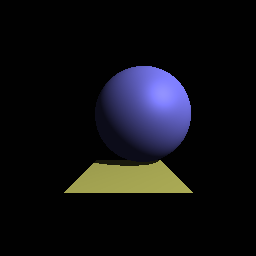
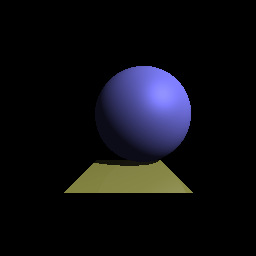
Finish Basic Raytracing with phong model, shadow, reflection May add refraction in future

Changed region(s): [[0.25, 0.625, 0.75, 0.7812]]

diff --git a/src/Ray.cpp b/src/Ray.cpp
@@ -27,7 +27,7 @@ Ray::Ray(Point3f rayOrigin_, Point3f rayVector_, bool isHit_, bool init_, bool i
 }
 
 Mat Ray::phongShading(){
-    Mat RGBVector = Mat::ones(1,3, CV_8UC1);
+    Mat RGBVector = Mat::zeros(1,3, CV_8UC1);
     myHitPoint.normalVector = Mat(3,1,CV_32F);
     for(int k = 0; k<sphereBuffer.size(); k++){
         float a = pow(rayVector.x,2) + pow(rayVector.y,2) + pow(rayVector.z,2);
@@ -39,7 +39,7 @@ Mat Ray::phongShading(){
         float t1 = (-b+sqrt(theta))/(2*a);
         float t2 = (-b-sqrt(theta))/(2*a);
 
-        if( theta >= 0 &&( t1 >0 || t2 >0)){
+        if( theta >= 0 &&( t1 >0.001 || t2 >0.001)){
             isHit = true;
             if( t1<=t2 ){
                 myHitPoint.tScale = t1;
@@ -90,7 +90,7 @@ Mat Ray::phongShading(){
         if (determinant(m) != 0){
             Mat ans = m.inv()*left;
             float t = ans.at<float>(2,0);
-            if((ans.at<float>(0,0)>=0) && (ans.at<float>(1,0)>=0) && (ans.at<float>(0,0)+ans.at<float>(1,0)<=1) && t>0){
+            if((ans.at<float>(0,0)>=0) && (ans.at<float>(1,0)>=0) && (ans.at<float>(0,0)+ans.at<float>(1,0)<=1) && t>0.001){
                 isHit = true;
                 myHitPoint.tScale = t;
                 if( myHitPoint.init == false){
@@ -137,29 +137,33 @@ Mat Ray::phongShading(){
         Vec3f thisRayRGB;
         Vec3f vecNormal((float*)myHitPoint.normalVector.data);
         checkShadow();   
-        float absNdotL, absNdotH;     
+        float absNdotL, absNdotH;
+        normalize(eyeVector,eyeVector);
+        normalize(lightVector,lightVector);
+        normalize(vecNormal,vecNormal); 
         if(isShadow==true){
             Id = 0;
             Is = 0;
-        }else{
-            normalize(eyeVector,eyeVector);
-            normalize(lightVector,lightVector);
-            normalize(vecNormal,vecNormal);
+        } else{
             absNdotL = abs(myDot(vecNormal, lightVector));
             Id = absNdotL*Ia;
             H = lightVector+eyeVector;
             absNdotH = abs(myDot(vecNormal, H));
             Is = pow(absNdotH,myHitPoint.myMaterial.exp)*Ia;
-        }/*
-        float eyeProjectToNormalScale = myDot(vecNormal, eyeVector);
-        Vec3f eyeProjectToNormal = eyeProjectToNormalScale*vecNormal;
-        Vec3f reflectEyeVector = eyeVector+ 2*(eyeProjectToNormal-eyeVector);
-        Ray recursiveRay(myHitPoint.thePoint, reflectEyeVector, false, false, false);
-        Mat recursiveRGB =  recursiveRay.phongShading();
-        cout<<recursiveRGB<<endl;*/
+        }
 
-        thisRayRGB = myHitPoint.myMaterial.ka*Ia + myHitPoint.myMaterial.kd*Id + myHitPoint.myMaterial.ks*Is;
+        Vec3f rayVectorforRec(rayVector.x, rayVector.y, rayVector.z);
+        normalize(rayVectorforRec, rayVectorforRec); 
+        float rayProjectToNormalScale = myDot(vecNormal, rayVectorforRec);
+        Vec3f rayProjectToNormal = -1*(rayProjectToNormalScale*vecNormal);
+        Vec3f reflectEyeVector = -1*rayVectorforRec+ 2*(rayProjectToNormal+rayVectorforRec);
+        Point3f tempRay(reflectEyeVector[0], reflectEyeVector[1], reflectEyeVector[2]);
+        Ray recursiveRay(myHitPoint.thePoint, tempRay, false, false, false);
+        Mat recursiveRGBMat =  recursiveRay.phongShading();
 
+        Vec3f recursiveRGB(recursiveRGBMat.at<uchar>(0,0)/255.0, recursiveRGBMat.at<uchar>(0,1)/255.0, recursiveRGBMat.at<uchar>(0,2)/255.0);
+        thisRayRGB = (1- myHitPoint.myMaterial.reflect)*(myHitPoint.myMaterial.ka*Ia + myHitPoint.myMaterial.kd*Id + myHitPoint.myMaterial.ks*Is)
+                        + myHitPoint.myMaterial.reflect*recursiveRGB;
         if(thisRayRGB[0]>1.0){
             thisRayRGB[0] = 1.0f;
         }
@@ -238,19 +242,3 @@ float myDot(Vec3f a, Vec3f b){
     float ouptut = c[0]+c[1]+c[2];
     return ouptut;
 }
-
-
-
-
-
-
-
-
-
-
-
-
-
-
-
-

diff --git a/src/Scene.cpp b/src/Scene.cpp
@@ -59,7 +59,6 @@ void Scene::startRay(){
                     (sceneInfo.outputImagePoint2.y - sceneInfo.outputImagePoint1.y)*i/sceneInfo.resolution.y - sceneInfo.eye.y;
             vectorRay.z = sceneInfo.outputImagePoint1.z - sceneInfo.eye.z;
 
-            cout<<"Pixel i,j "<<i<<" "<<j<<endl;
             Ray pixelRay(sceneInfo.eye, vectorRay, false, false, false);
             Mat outputRGB =  pixelRay.phongShading();
             colorImage.at<Vec3b>(i,j)[0] = outputRGB.at<uchar>(0,0);
